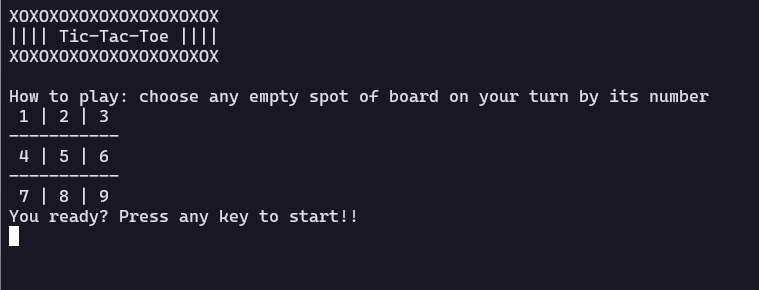
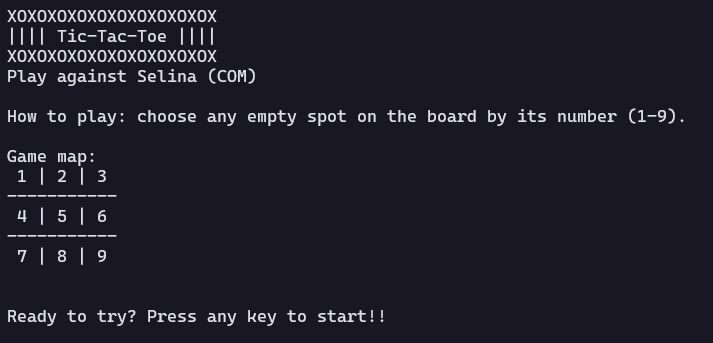
feat: minimax algorithm first structure

Changed region(s): [[0.0, 0.3103, 0.9565, 0.869], [0.0, 0.031, 0.3703, 0.2483], [0.0, 0.9, 0.5245, 0.9621]]

diff --git a/main.c b/main.c
@@ -15,8 +15,8 @@ int isGameOver(const char board[BOARD_SIZE][BOARD_SIZE], char player);
 
 // Minimax
 int getPoints(const char board[BOARD_SIZE][BOARD_SIZE], char aiPlayer);
-int getAiBestMove(char board[BOARD_SIZE][BOARD_SIZE], char currentPlayer);
-int minimax(char board[BOARD_SIZE][BOARD_SIZE]);
+int getAiBestMove(char board[BOARD_SIZE][BOARD_SIZE], char aiPlayer);
+int minimax(char board[BOARD_SIZE][BOARD_SIZE], int depth, int isMaximizing, const char aiPlayer);
 
 int main()
 {
@@ -24,15 +24,16 @@ int main()
     initializeBoard(board);
 
     char currentPlayer = 'X';
-    char aiPlayer = (currentPlayer == 'X') ? 'O' : 'X';
+    const char player = 'X';
+    const char aiPlayer = (player == 'X') ? 'O' : 'X';
     int move;
 
     // Main menu
     system("cls");
-    printf("XOXOXOXOXOXOXOXOXOXOX\n|||| Tic-Tac-Toe ||||\nXOXOXOXOXOXOXOXOXOXOX\n\n");
-    printf("How to play: choose any empty spot on the board by its number (1-9).\n");
-    printf("Game map:\n 1 | 2 | 3\n-----------\n 4 | 5 | 6\n-----------\n 7 | 8 | 9\n");
-    printf("You ready? Press any key to start!!\n");
+    printf("XOXOXOXOXOXOXOXOXOXOX\n|||| Tic-Tac-Toe ||||\nXOXOXOXOXOXOXOXOXOXOX\nPlay against Selina (COM)\n\n");
+    printf("How to play: choose any empty spot on the board by its number (1-9).\n\n");
+    printf("Game map:\n 1 | 2 | 3\n-----------\n 4 | 5 | 6\n-----------\n 7 | 8 | 9\n\n\n");
+    printf("Ready to play? Press any key to start!!\n");
     getch();
 
     for (int currentMove = 0; currentMove < MAX_MOVES; currentMove++) {
@@ -44,7 +45,7 @@ int main()
             printf("\nSelina is thinking...\n");
             move = getAiBestMove(board, aiPlayer);
         } else {
-            // Human's turn
+            // Player's turn
             do {
                 printf("\n[%c] > ", currentPlayer);
                 scanf_s("%d", &move);
@@ -149,25 +150,25 @@ int isGameOver(const char board[BOARD_SIZE][BOARD_SIZE], char player) {
 // Minimax
 int getPoints(const char board[BOARD_SIZE][BOARD_SIZE], char aiPlayer) {
     if (isWin(board, aiPlayer)) {
-        return 1; // AI player wins
-    } else if (isWin(board, (aiPlayer == 'X') ? 'O' : 'X')) {
-        return -1; // Opponent wins
-    } else if (isDraw(board)) {
-        return 0; // It's a draw
-    } else {
-        return 0; // The game is still ongoing (no immediate result)
+        return 1; // AI wins
     }
+
+    if (isDraw(board)) {
+        return 0; // It's a draw
+    }
+
+    return -1; // AI loses
 }
 
-int getAiBestMove(char board[BOARD_SIZE][BOARD_SIZE], char currentPlayer) {
+int getAiBestMove(char board[BOARD_SIZE][BOARD_SIZE], char aiPlayer) {
     int bestMove = -1;
     int bestScore = -2;
 
     for (int move = 1; move <= 9; move++) {
         if (isValidMove(board, move)) {
-            makeMove(board, move, currentPlayer);
-            int score = minimax(board);
-            makeMove(board, move, '_'); // Undo move
+            makeMove(board, move, aiPlayer);
+            int score = minimax(board, 0, 0, aiPlayer);
+            makeMove(board, move, '_');
             if (score > bestScore) {
                 bestScore = score;
                 bestMove = move;
@@ -177,6 +178,39 @@ int getAiBestMove(char board[BOARD_SIZE][BOARD_SIZE], char currentPlayer) {
     return bestMove;
 }
 
-int minimax(char board[BOARD_SIZE][BOARD_SIZE]) {
-    return 1;
+int minimax(char board[BOARD_SIZE][BOARD_SIZE], int depth, int isMaximizing, const char aiPlayer) {
+    if (isGameOver(board, aiPlayer)) {
+        return getPoints(board, aiPlayer);
+    }
+
+    int score;
+
+    if (isMaximizing) {
+        int bestScore = -2;
+        for (int move = 1; move <= 9; move++) {
+            if (isValidMove(board, move)) {
+                makeMove(board, move, aiPlayer);
+                score = minimax(board, depth + 1, 0, aiPlayer);
+                makeMove(board, move, '_');
+                if (score > bestScore) {
+                    bestScore = score;
+                }
+            }
+        }
+        return bestScore;
+    }
+    else {
+        int bestScore = 2;
+        for (int move = 1; move <= 9; move++) {
+            if (isValidMove(board, move)) {
+                makeMove(board, move, (aiPlayer == 'X') ? 'O' : 'X');
+                score = minimax(board, depth + 1, 1, aiPlayer);
+                makeMove(board, move, '_');
+                if (score < bestScore) {
+                    bestScore = score;
+                }
+            }
+        }
+        return bestScore;
+    }
 }

diff --git a/README.md b/README.md
@@ -1,13 +1,19 @@
 # TicTacToe Game
 
-A text based tic tac toe game made in C
+A text based tic-tac-toe game made in C with COM as opponent using minimax algorithm.
 
 ## Screenshots
 ![img](doc/screenshot.png)
 
 ## To-do
 - [X] Make it works
-- [ ] Develop Minimax algorithm
+- [X] Increment UI
+- [X] Develop Minimax algorithm
+
+## References
+- [@adolfoguimaraes](https://github.com/adolfoguimaraes) [Algorithm and AI Professor];
+- [Geeks for Geeks](https://www.geeksforgeeks.org/minimax-algorithm-in-game-theory-set-1-introduction/);
+- [Wikipedia](https://en.wikipedia.org/wiki/Minimax).
 
 ## License
 MIT by Wolney Oliveira
